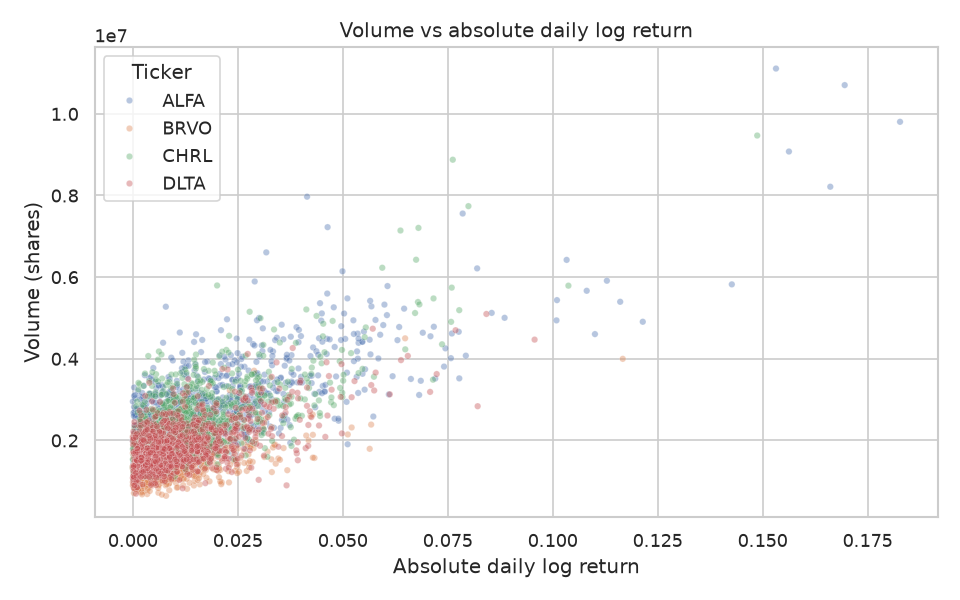
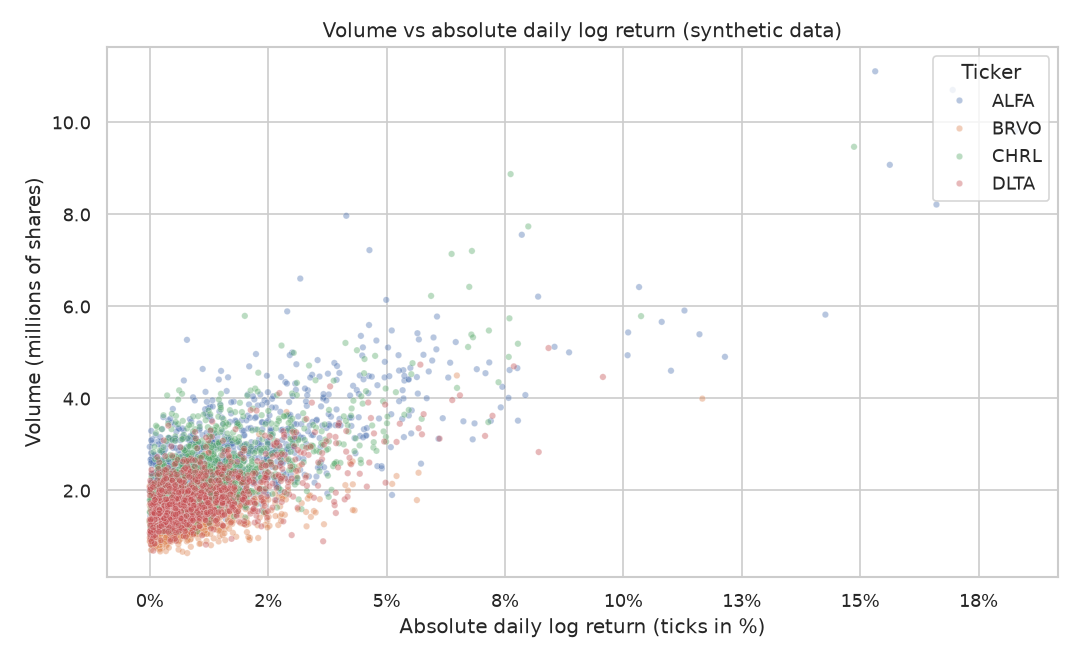
stock-technical-indicators: Label volume and return axes in readable units in EDA scatter

diff --git a/stock-technical-indicators/src/eda.py b/stock-technical-indicators/src/eda.py
@@ -25,6 +25,7 @@ import matplotlib.pyplot as plt
 import numpy as np
 import pandas as pd
 import seaborn as sns
+from matplotlib.ticker import FuncFormatter, PercentFormatter
 
 PROJECT_DIR = Path(__file__).resolve().parents[1]
 DATA_DIR = PROJECT_DIR / "data"
@@ -148,7 +149,7 @@ def plot_close_prices(prices):
         ax.plot(grp["date"], grp["close"] / grp["close"].iloc[0] * 100, label=ticker)
     ax.set_title("Synthetic close prices rebased to 100")
     ax.set_xlabel("Date")
-    ax.set_ylabel("Rebased close price")
+    ax.set_ylabel("Rebased close price (first close = 100)")
     ax.legend(title="Ticker")
     save_figure(fig, "close_prices.png")
 
@@ -176,17 +177,20 @@ def plot_return_distribution(prices):
 
 
 def plot_volume_vs_return(prices):
-    """Scatter of volume against absolute daily return."""
+    """Scatter of volume against absolute daily return, with readable axis units."""
     data = prices.dropna(subset=["abs_return"])
-    fig, ax = plt.subplots(figsize=(8, 5))
+    fig, ax = plt.subplots(figsize=(9, 5.5))
     sns.scatterplot(
         data=data, x="abs_return", y="volume", hue="ticker",
         alpha=0.4, s=15, ax=ax,
     )
-    ax.set_title("Volume vs absolute daily log return")
-    ax.set_xlabel("Absolute daily log return")
-    ax.set_ylabel("Volume (shares)")
-    ax.legend(title="Ticker")
+    ax.set_title("Volume vs absolute daily log return (synthetic data)")
+    ax.set_xlabel("Absolute daily log return (ticks in %)")
+    ax.set_ylabel("Volume (millions of shares)")
+    # Show returns as percentages and volume in millions instead of raw decimals
+    ax.xaxis.set_major_formatter(PercentFormatter(xmax=1.0, decimals=0))
+    ax.yaxis.set_major_formatter(FuncFormatter(lambda v, _: f"{v / 1e6:.1f}"))
+    ax.legend(title="Ticker", loc="upper right")
     save_figure(fig, "volume_vs_abs_return.png")
 
 
